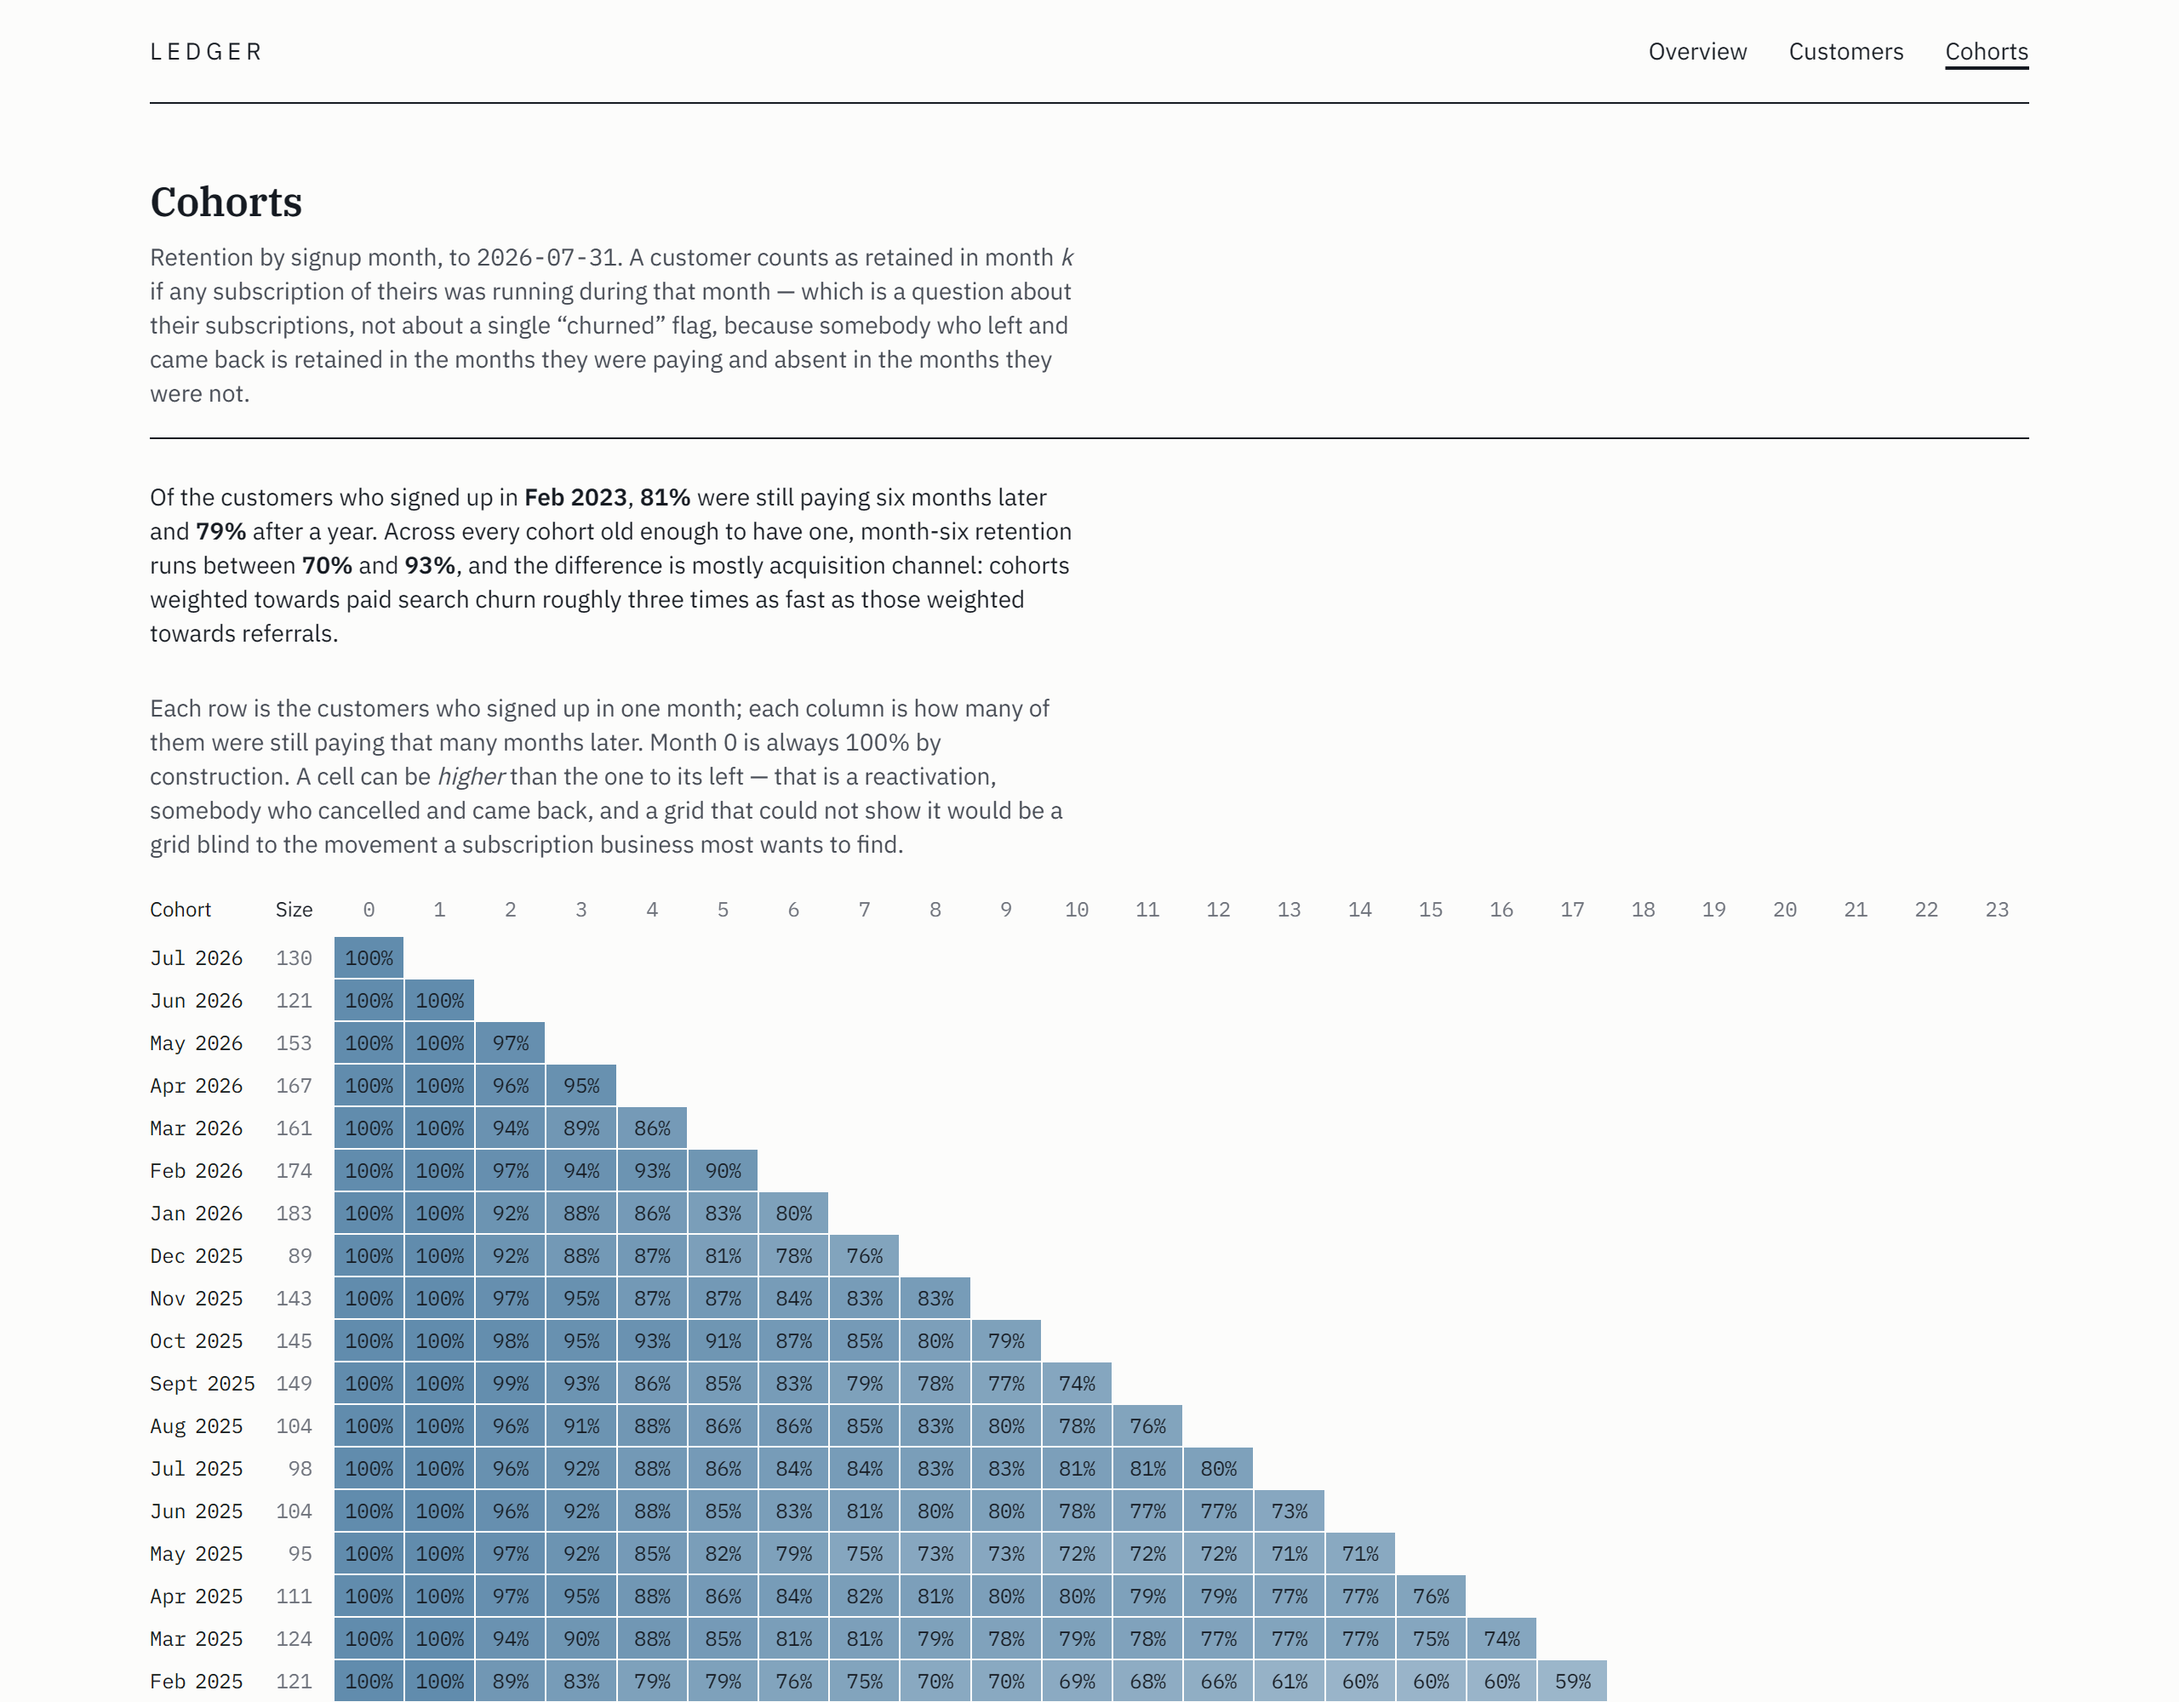
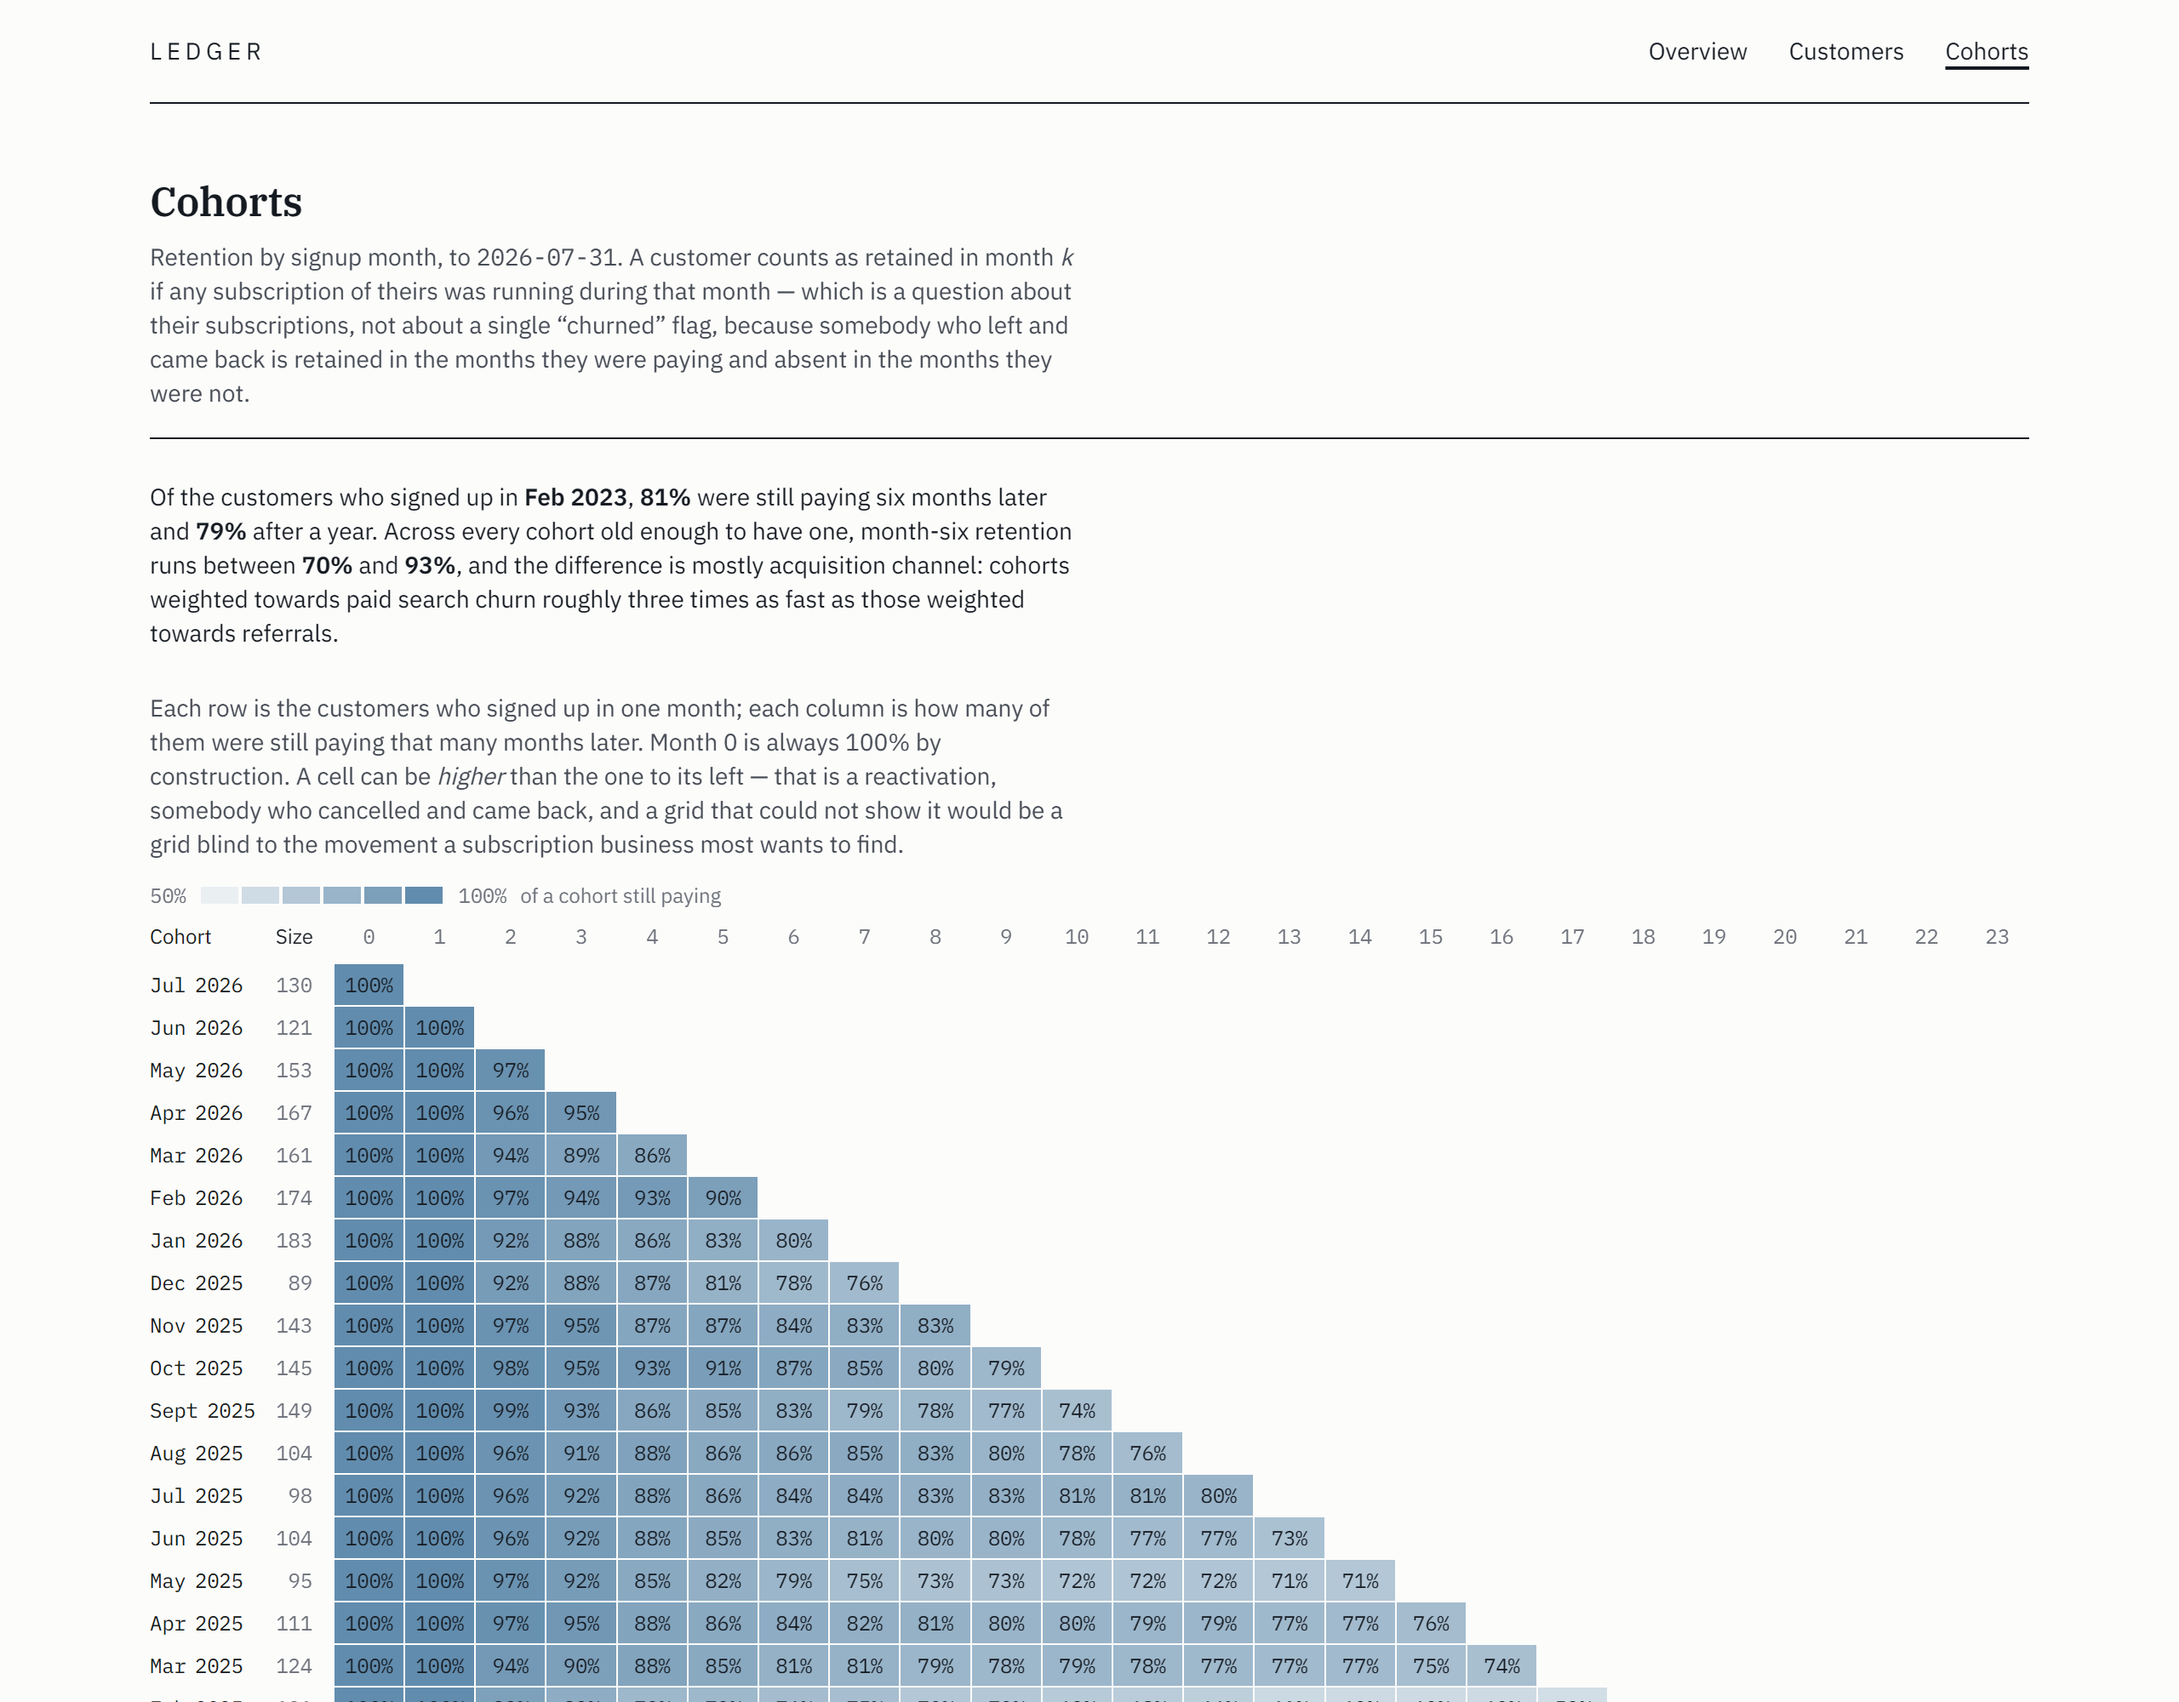
Make the cohort ramp carry the shape it claims to
cohort-grid.tsx said "the number carries the value and the shade carries
the shape". The render carried almost none of it. Month 0 is 100% by
construction and nothing observed falls below about 50%, and the ramp
was stretched across the full nominal 0-100% -- so it spent only its
middle third, and forty cohorts of decaying retention arrived as a
near-uniform blue slab. A well-argued comment describing something the
page does not do is worse than no comment, and this one had been sitting
under the most screenshot-worthy page in the build for its whole life.

It is anchored to the observed minimum and maximum now, so the decay is
visible as a shape. That is only honest with the endpoints stated, so
there is a key: 50% to 100% of a cohort still paying. Without it a
reader would reasonably read the palest cell as zero. Below a five-point
spread it falls back to the nominal scale and says so in the key, rather
than manufacturing contrast out of rounding.

The contrast floor is unchanged because the cap on the ramp is
unchanged: the darkest cell still measures 4.88:1 against ink, and
npm run contrast still asserts it. The swatches are aria-hidden -- every
cell prints its own percentage, so the shade is redundant by design and
the endpoints either side of the strip are the part worth reading out.

The README also now says why only one of the five data colours appears
here, since a critique read it as underuse: a retention ramp is one
[…]

Changed region(s): [[0.0625, 0.496, 0.75, 1.0]]

diff --git a/app/charts/cohort-grid.tsx b/app/charts/cohort-grid.tsx
@@ -19,6 +19,14 @@ import type {CohortCell} from '@/metrics/cohorts.ts'
  * than "darker than that one", so the number carries the value and the shade
  * carries the shape.
  *
+ * **The ramp is anchored to the values, not to 0–100%.** Month 0 is 100% by
+ * construction and nothing observed falls below about 59%, so a ramp stretched
+ * across the whole nominal range spent only its middle third and rendered as a
+ * near-uniform slab. The comment above used to claim the shade carried the
+ * shape while the render carried almost none of it. It is scaled to the
+ * observed minimum and maximum now, and a key states both endpoints — without
+ * that, a reader would reasonably assume the palest cell meant zero.
+ *
  * **Contrast.** The ramp stops at 70% of full strength rather than 100%, and
  * text stays `--color-ink` throughout. At full strength `#1F5C8B` against
  * `--color-ink` is 2.5:1 and fails; the usual fix is to flip the text to white
@@ -49,6 +57,30 @@ export function CohortGrid({
   const cohorts = [...byCohort.keys()].sort().reverse()
   const offsets = Array.from({length: maxOffset + 1}, (_, i) => i)
 
+  /*
+    The observed range, which is what the shading is scaled across.
+
+    The guard matters: a dataset where every cohort retained the same share
+    would make `hi - lo` zero and turn the ramp into a division by nothing.
+    Below a range of five percentage points there is no shape worth showing
+    either, so it falls back to the nominal scale and the grid goes flat
+    honestly rather than manufacturing contrast out of rounding.
+  */
+  const rates = cells
+    .filter((c) => c.cohort_size > 0)
+    .map((c) => c.retained / c.cohort_size)
+  const observedLo = rates.length > 0 ? Math.min(...rates) : 0
+  const observedHi = rates.length > 0 ? Math.max(...rates) : 1
+  const spread = observedHi - observedLo >= 0.05
+  const lo = spread ? observedLo : 0
+  const hi = spread ? observedHi : 1
+
+  const shade = (retention: number) => {
+    const t = hi === lo ? 1 : (retention - lo) / (hi - lo)
+    const intensity = BASE_INTENSITY + Math.min(Math.max(t, 0), 1) * (MAX_INTENSITY - BASE_INTENSITY)
+    return `color-mix(in srgb, var(--color-data-1) ${(intensity * 100).toFixed(0)}%, var(--color-paper))`
+  }
+
   return (
     <div className="mt-6">
       {/*
@@ -70,6 +102,34 @@ export function CohortGrid({
         somebody who cancelled and came back, and a grid that could not show it would be a
         grid blind to the movement a subscription business most wants to find.
       </p>
+      {/*
+        The key.
+
+        A ramp scaled to its data is only honest if the data's endpoints are
+        stated, and this one had no key at all — the single piece of
+        information encoded visually had no text equivalent anywhere. It sits
+        above the scroller so it is readable at 360px without scrolling a
+        retention grid sideways to find it.
+
+        The swatches are aria-hidden. Every cell prints its own percentage, so
+        the shade is redundant by design and the endpoints either side of the
+        strip are the part worth reading aloud.
+      */}
+      <p className="mt-3 flex flex-wrap items-center gap-x-2 gap-y-1 text-xs text-(--color-muted)">
+        <span data-numeric>{percent(lo)}</span>
+        <span aria-hidden="true" className="flex">
+          {Array.from({length: 6}, (_, i) => (
+            <span
+              key={i}
+              className="block h-3 w-6 border border-(--color-paper)"
+              style={{backgroundColor: shade(lo + ((hi - lo) * i) / 5)}}
+            />
+          ))}
+        </span>
+        <span data-numeric>{percent(hi)}</span>
+        <span>of a cohort still paying{spread ? '' : ' (too little spread to shade)'}</span>
+      </p>
+
       <Scroller label="Cohort retention grid" describedBy="cohort-note">
       <table className="border-collapse text-xs">
         <caption className="sr-only">
@@ -120,17 +180,12 @@ export function CohortGrid({
                     return <td key={offset} className="py-1" />
                   }
                   const retention = cell.cohort_size === 0 ? 0 : cell.retained / cell.cohort_size
-                  const intensity = BASE_INTENSITY + retention * (MAX_INTENSITY - BASE_INTENSITY)
                   return (
                     <td
                       key={offset}
                       data-numeric
                       className="border border-(--color-paper) px-1 py-1 text-center"
-                      style={{
-                        backgroundColor: `color-mix(in srgb, var(--color-data-1) ${(
-                          intensity * 100
-                        ).toFixed(0)}%, var(--color-paper))`,
-                      }}
+                      style={{backgroundColor: shade(retention)}}
                     >
                       {percent(retention)}
                     </td>

diff --git a/README.md b/README.md
@@ -489,6 +489,31 @@ accessible. So the lines are split by job: `rule` and `rule-2` separate things a
 decorative, `field` outlines inputs and buttons at 3.33:1, and the zero baseline on the
 movement chart — which somebody genuinely needs in order to read it — is drawn in ink.
 
+### The cohort ramp had to earn the sentence written about it
+
+`cohort-grid.tsx` said "the number carries the value and the shade carries the shape".
+The render carried almost none of it. Month 0 is 100% by construction and nothing observed
+falls below about 50%, and the ramp was stretched across the full nominal 0–100% — so it
+spent only its middle third, and forty cohorts of decaying retention arrived as a
+near-uniform blue slab. **A well-argued comment describing something the page does not do
+is worse than no comment**, and this one had been sitting under a screenshot-worthy page
+for the whole build.
+
+It is anchored to the observed minimum and maximum now, so the decay is visible as a shape.
+That is only honest with the endpoints stated, so there is a key: `50% ▁▂▃▄▅ 100% of a
+cohort still paying`. Without it a reader would reasonably read the palest cell as zero.
+Below a five-point spread it falls back to the nominal scale and says so, rather than
+manufacturing contrast out of rounding.
+
+The contrast floor is unchanged, because the cap on the ramp is unchanged: the darkest
+cell still measures 4.88:1 against ink, and `npm run contrast` still asserts it.
+
+**On using only one of the five data colours here:** that is the correct answer rather than
+underuse. A retention ramp is one scale, an MRR line is one series, and the movement bars
+are two signed directions. `data-2` through `data-4` exist for the one chart that genuinely
+has five categories. Spending them elsewhere would be colour without a job, on a build
+whose rule is that colour appears only inside data marks.
+
 The cohort ramp stops at 70% strength rather than 100%, and that number was measured
 rather than chosen. At full strength the cell colour against the ink is 2.5:1 and
 fails. The usual fix is to flip the text to white past a threshold, but the band around
